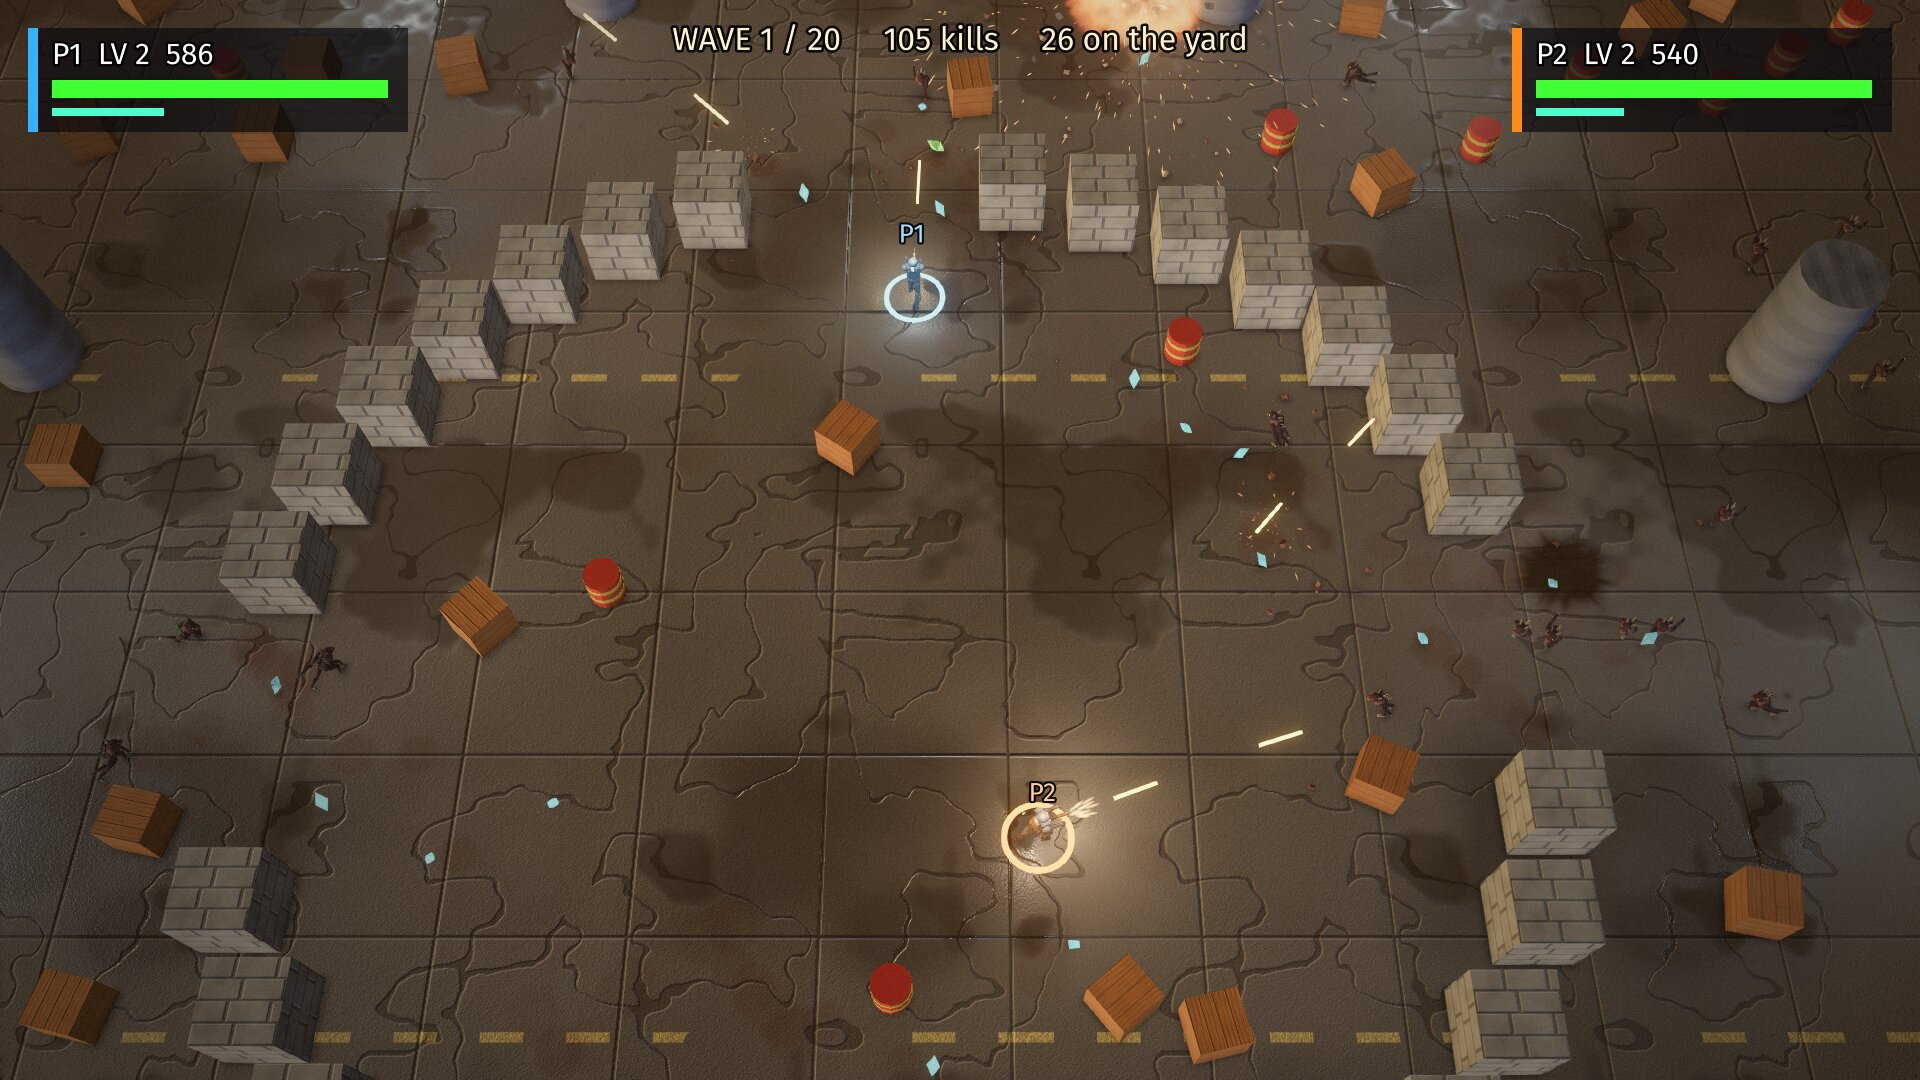
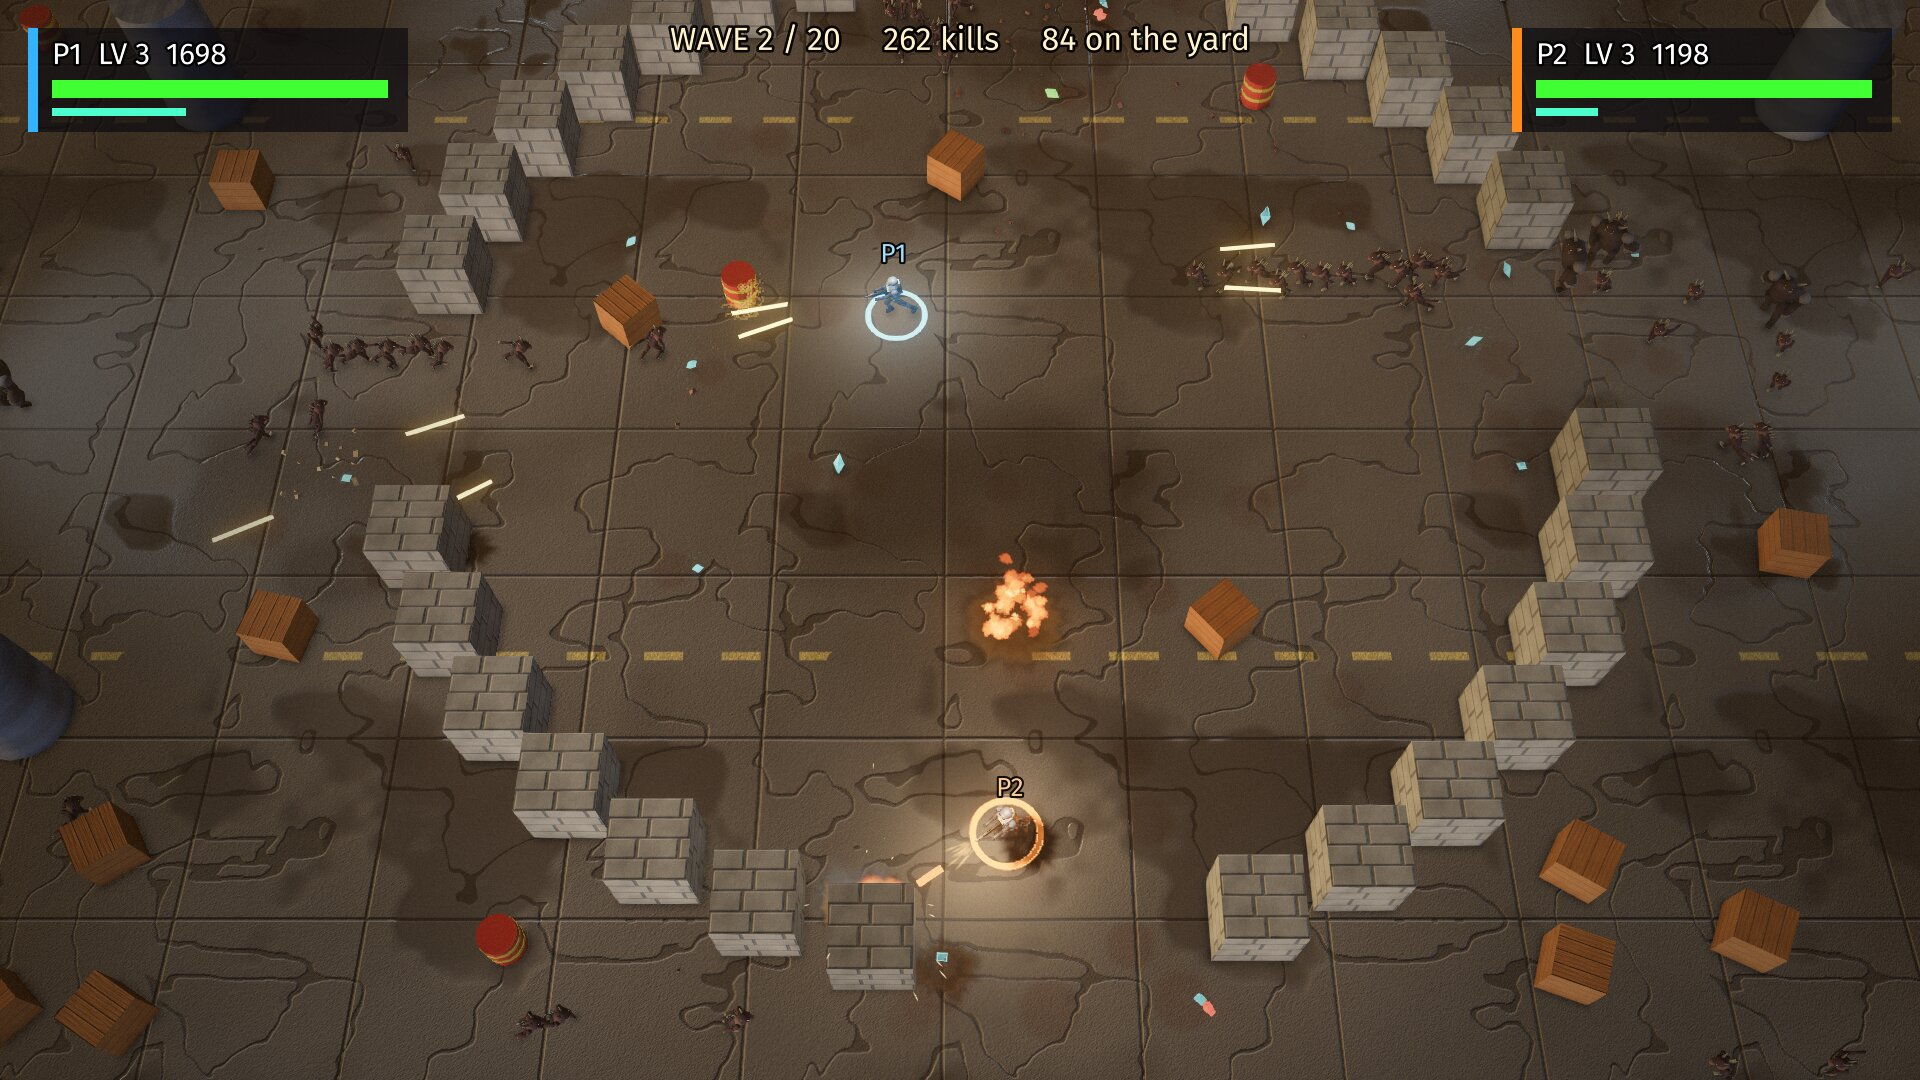
hordeshooter: README screenshot of the second wave (reviewed)

diff --git a/README.md b/README.md
@@ -74,7 +74,7 @@ full controls and the move notation).
 
 ### hordeshooter
 
-![hordeshooter: two players holding the yard as the first wave closes in](docs/screenshots/hordeshooter.jpg)
+![hordeshooter: the second wave pours across the yard as a blast goes off between the players](docs/screenshots/hordeshooter.jpg)
 
 One to four players hold a walled yard against a horde that never stops
 coming, on one shared camera that zooms out to keep everyone in view. Gems
